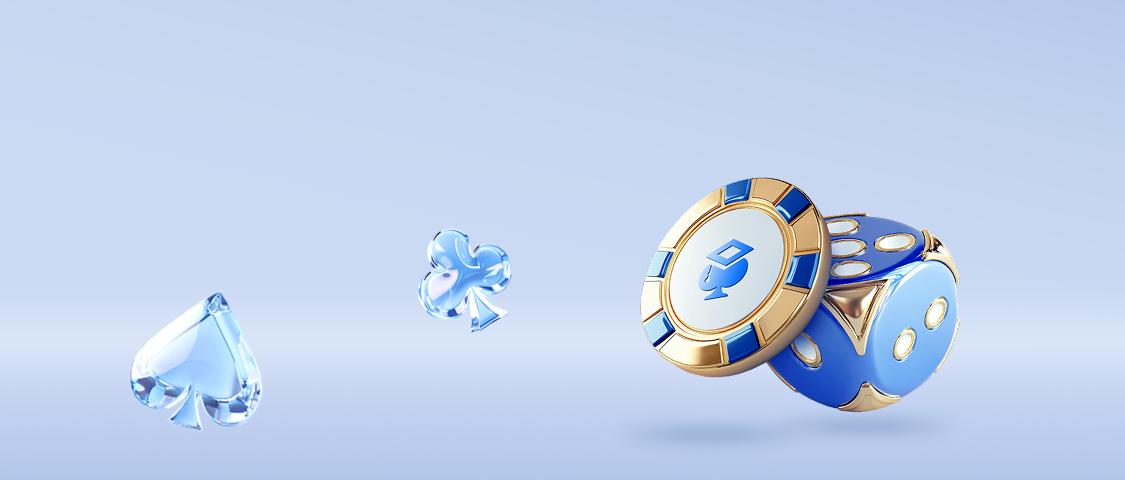
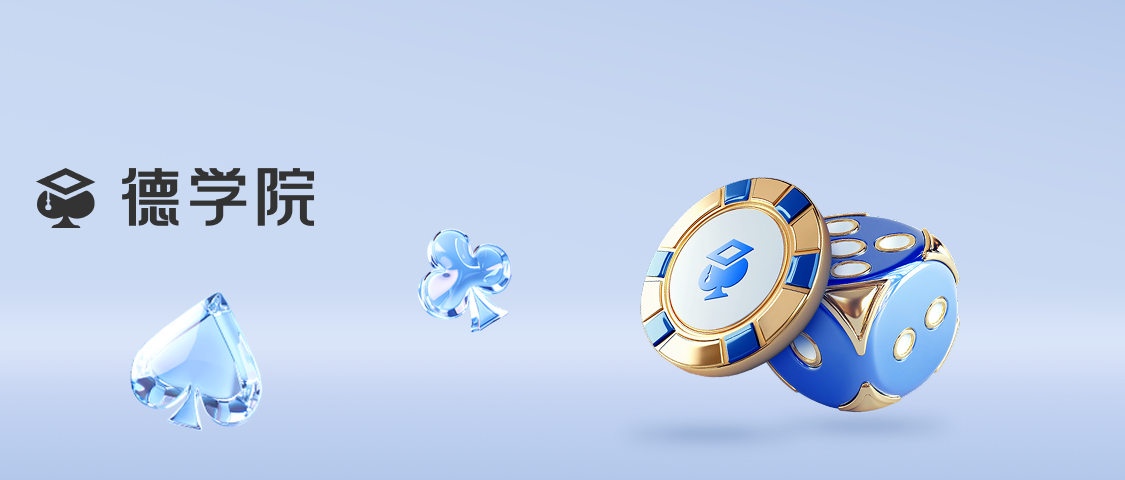
fix：登录注册页面ui还原

Changed region(s): [[0.0311, 0.3438, 0.28, 0.5]]

diff --git a/lib/page/login/widgets/register_content.dart b/lib/page/login/widgets/register_content.dart
@@ -206,7 +206,7 @@ class _RegisterContentState extends State<RegisterContent> {
                       }
                     },
                   ),
-                  SizedBox(height: 12.w),
+                  SizedBox(height: 16.w),
                   Container(
                     height: 40.w,
                     padding: EdgeInsets.symmetric(horizontal: 12.w),
@@ -255,19 +255,22 @@ class _RegisterContentState extends State<RegisterContent> {
                     ),
                   ),
                   Padding(
-                    padding: isShowAccountTips ? EdgeInsets.symmetric(vertical: 3.w) : EdgeInsets.zero,
-                    child: Text(
-                      isShowAccountTips ? type.tips : '',
-                      style: TextStyle(
-                        fontSize: 10.sp,
-                        color: isShowAccountTips ? Colors.red : '#95A3C4'.hexColor,
+                    padding: isShowAccountTips ? EdgeInsets.symmetric(vertical: 10.w) : EdgeInsets.zero,
+                    child: SizedBox(
+                      height: 16.w,
+                      child: Text(
+                        isShowAccountTips ? type.tips : '',
+                        style: TextStyle(
+                          fontSize: 10.sp,
+                          color: isShowAccountTips ? Colors.red : '#95A3C4'.hexColor,
+                        ),
                       ),
-                    ),
+                    )
                   ),
                   if (type != LoginType.username) ...[
                     Container(
                       height: 40.w,
-                      padding: EdgeInsets.symmetric(horizontal: 12.w),
+                      padding: EdgeInsets.symmetric(horizontal: 16.w),
                       decoration: BoxDecoration(
                         color: '#f5f5f5'.hexColor,
                         borderRadius: BorderRadius.circular(12.r),
@@ -302,12 +305,15 @@ class _RegisterContentState extends State<RegisterContent> {
                       ),
                     ),
                     Padding(
-                      padding: isShowCodeTips ? EdgeInsets.symmetric(vertical: 3.w) : EdgeInsets.zero,
-                      child: Text(
-                        isShowCodeTips ? '*验证码错误' : '',
-                        style: TextStyle(
-                          fontSize: 10.sp,
-                          color: isShowCodeTips ? Colors.red : '#95A3C4'.hexColor,
+                      padding: isShowCodeTips ? EdgeInsets.symmetric(vertical: 10.w) : EdgeInsets.zero,
+                      child: SizedBox(
+                        height: 16.w,
+                        child: Text(
+                          isShowCodeTips ? '*验证码错误' : '',
+                          style: TextStyle(
+                            fontSize: 10.sp,
+                            color: isShowCodeTips ? Colors.red : '#95A3C4'.hexColor,
+                          ),
                         ),
                       ),
                     ),
@@ -356,16 +362,19 @@ class _RegisterContentState extends State<RegisterContent> {
                     ),
                   ),
                   Padding(
-                    padding: EdgeInsets.symmetric(vertical: 6.w),
-                    child: Text(
-                      isShowPwTips
-                          ? isContainsInvalidChars
-                              ? '*仅允许英文字母、数字及特殊字符如@#\$%!'
-                              : '*至少包含一位大小写字母+数字'
-                          : '*8-12字符，至少包含大小写字母+数字',
-                      style: TextStyle(
-                        fontSize: 10.sp,
-                        color: isShowPwTips ? Colors.red : '#95A3C4'.hexColor,
+                    padding: EdgeInsets.symmetric(vertical: 10.w),
+                    child: SizedBox(
+                      height: 16.w,
+                      child: Text(
+                        isShowPwTips
+                            ? isContainsInvalidChars
+                            ? '*仅允许英文字母、数字及特殊字符如@#\$%!'
+                            : '*至少包含一位大小写字母+数字'
+                            : '*8-12字符，至少包含大小写字母+数字',
+                        style: TextStyle(
+                          fontSize: 10.sp,
+                          color: isShowPwTips ? Colors.red : '#95A3C4'.hexColor,
+                        ),
                       ),
                     ),
                   ),
@@ -415,7 +424,7 @@ class _RegisterContentState extends State<RegisterContent> {
                     ),
                   ),
                   Padding(
-                    padding: EdgeInsets.symmetric(vertical: 6.w),
+                    padding: EdgeInsets.symmetric(vertical: 10.w),
                     child: Text(
                       isShowAgainTips ? '*两次输入的密码不一致' : '*8-12字符，至少包含大小写字母+数字',
                       style: TextStyle(

diff --git a/lib/page/login/login_screen.dart b/lib/page/login/login_screen.dart
@@ -91,7 +91,11 @@ class _LoginScreenState extends State<LoginScreen> {
               children: [
                 Stack(
                   children: [
-                    Image.asset('assets/images/login_bg.png'),
+                    Image.asset(
+                        'assets/images/login_bg.png',
+                      height: 160.w,
+                      fit: BoxFit.contain,
+                    ),
                     Positioned(
                       child: SafeArea(
                         child: Container(
@@ -101,14 +105,14 @@ class _LoginScreenState extends State<LoginScreen> {
                             mainAxisAlignment: MainAxisAlignment.spaceBetween,
                             mainAxisSize: MainAxisSize.max,
                             children: [
-                              Image.asset(
-                                'assets/images/logo.png',
-                                height: 23.w,
+                              SizedBox(
+                                width: 96.w,
+                                height: 20.w,
                               ),
                               CloseImageButton(
                                 width: 16.w,
                                 height: 16.w,
-                                padding: EdgeInsets.all(16.w),
+                                padding: EdgeInsets.all(16.w).copyWith(top: 0),
                                 onTap: Get.back,
                               ),
                             ],
@@ -132,14 +136,14 @@ class _LoginScreenState extends State<LoginScreen> {
                             Text(
                               '登录',
                               style: TextStyle(
-                                fontSize: 20.sp,
+                                fontSize: isLogin ? 18.sp : 14.sp,
                                 fontWeight: isLogin ? FontWeight.w600 : FontWeight.w400,
                                 color: isLogin ? '#333333'.hexColor : '#333333'.hexColor,
                               ),
                             ),
                             Container(
-                              width: 21.w,
-                              height: 4.w,
+                              width: 12.w,
+                              height: 2.w,
                               margin: EdgeInsets.only(top: 4.w),
                               decoration: BoxDecoration(
                                 color: isLogin ? '#557BF6'.hexColor : Colors.transparent,
@@ -165,14 +169,14 @@ class _LoginScreenState extends State<LoginScreen> {
                             Text(
                               '注册',
                               style: TextStyle(
-                                fontSize: 20.sp,
+                                fontSize: isLogin ? 14.sp : 18.sp,
                                 fontWeight: !isLogin ? FontWeight.w600 : FontWeight.w400,
                                 color: !isLogin ? '#333333'.hexColor : '#333333'.hexColor,
                               ),
                             ),
                             Container(
-                              width: 21.w,
-                              height: 4.w,
+                              width: 12.w,
+                              height: 2.w,
                               margin: EdgeInsets.only(top: 4.w),
                               decoration: BoxDecoration(
                                 color: !isLogin ? '#557BF6'.hexColor : Colors.transparent,
@@ -225,6 +229,7 @@ class _LoginScreenState extends State<LoginScreen> {
                 showOpacityAnimation: true,
                 textColor: Colors.white,
                 height: 42.w,
+                radius: 8.w,
                 title: isLogin ? '登录' : '注册',
               ),
               SizedBox(height: 20.w),
@@ -238,7 +243,7 @@ class _LoginScreenState extends State<LoginScreen> {
                     mainAxisAlignment: MainAxisAlignment.center,
                     children: [
                       Text(
-                        '没有账号？',
+                        isLogin ? '没有账号？' : '已有账号？',
                         style: TextStyle(fontSize: 12.sp, color: '#333333'.hexColor),
                       ),
                       Text(

diff --git a/lib/page/login/widgets/login_content.dart b/lib/page/login/widgets/login_content.dart
@@ -167,7 +167,7 @@ class _LoginContentState extends State<LoginContent> {
                       }
                     },
                   ),
-                  SizedBox(height: 12.w),
+                  SizedBox(height: 16.w),
                   Container(
                     height: 40.w,
                     padding: EdgeInsets.symmetric(horizontal: 12.w),
@@ -216,7 +216,7 @@ class _LoginContentState extends State<LoginContent> {
                     ),
                   ),
                   Padding(
-                    padding: isShowAccountTips ? EdgeInsets.symmetric(vertical: 3.w) : EdgeInsets.zero,
+                    padding: isShowAccountTips ? EdgeInsets.symmetric(vertical: 10.w) : EdgeInsets.zero,
                     child: Text(
                       isShowAccountTips ? type.tips : '',
                       style: TextStyle(
@@ -269,7 +269,7 @@ class _LoginContentState extends State<LoginContent> {
                     ),
                   ),
                   Padding(
-                    padding: isShowPwTips ? EdgeInsets.symmetric(vertical: 3.w) : EdgeInsets.zero,
+                    padding: isShowPwTips ? EdgeInsets.symmetric(vertical: 10.w) : EdgeInsets.zero,
                     child: Text(
                       isShowPwTips ? '*8-12位，须包含大小写字母+数字' : '',
                       style: TextStyle(

diff --git a/lib/widget/button.dart b/lib/widget/button.dart
@@ -47,7 +47,7 @@ class CustomButton extends StatelessWidget {
       duration: const Duration(milliseconds: 300),
       child: Container(
         decoration: BoxDecoration(
-          borderRadius: BorderRadius.circular(height / 2),
+          borderRadius: BorderRadius.circular(radius != null ? radius! : height / 2),
           image: DecorationImage(
             image: AssetImage(isCancel ? 'assets/images/logout_btn.png' : 'assets/images/login_btn.png'),
             fit: BoxFit.fill,
@@ -61,7 +61,7 @@ class CustomButton extends StatelessWidget {
             backgroundColor: Colors.transparent,
             elevation: 0,
             shape: RoundedRectangleBorder(
-              borderRadius: BorderRadius.circular(height * 0.5),
+              borderRadius: BorderRadius.circular(radius != null ? radius! : height * 0.5),
             ),
           ),
           child: Text(

diff --git a/lib/page/login/widgets/type_selector.dart b/lib/page/login/widgets/type_selector.dart
@@ -105,7 +105,7 @@ class _TypeSelectorState extends State<TypeSelector> {
               Expanded(
                 child: Text(
                   widget.typeList[widget.typeIndex],
-                  style: TextStyle(fontSize: 12.sp, color: '#333333'.hexColor),
+                  style: TextStyle(fontSize: 14.sp, color: '#333333'.hexColor),
                 ),
               ),
               SvgPicture.asset(
